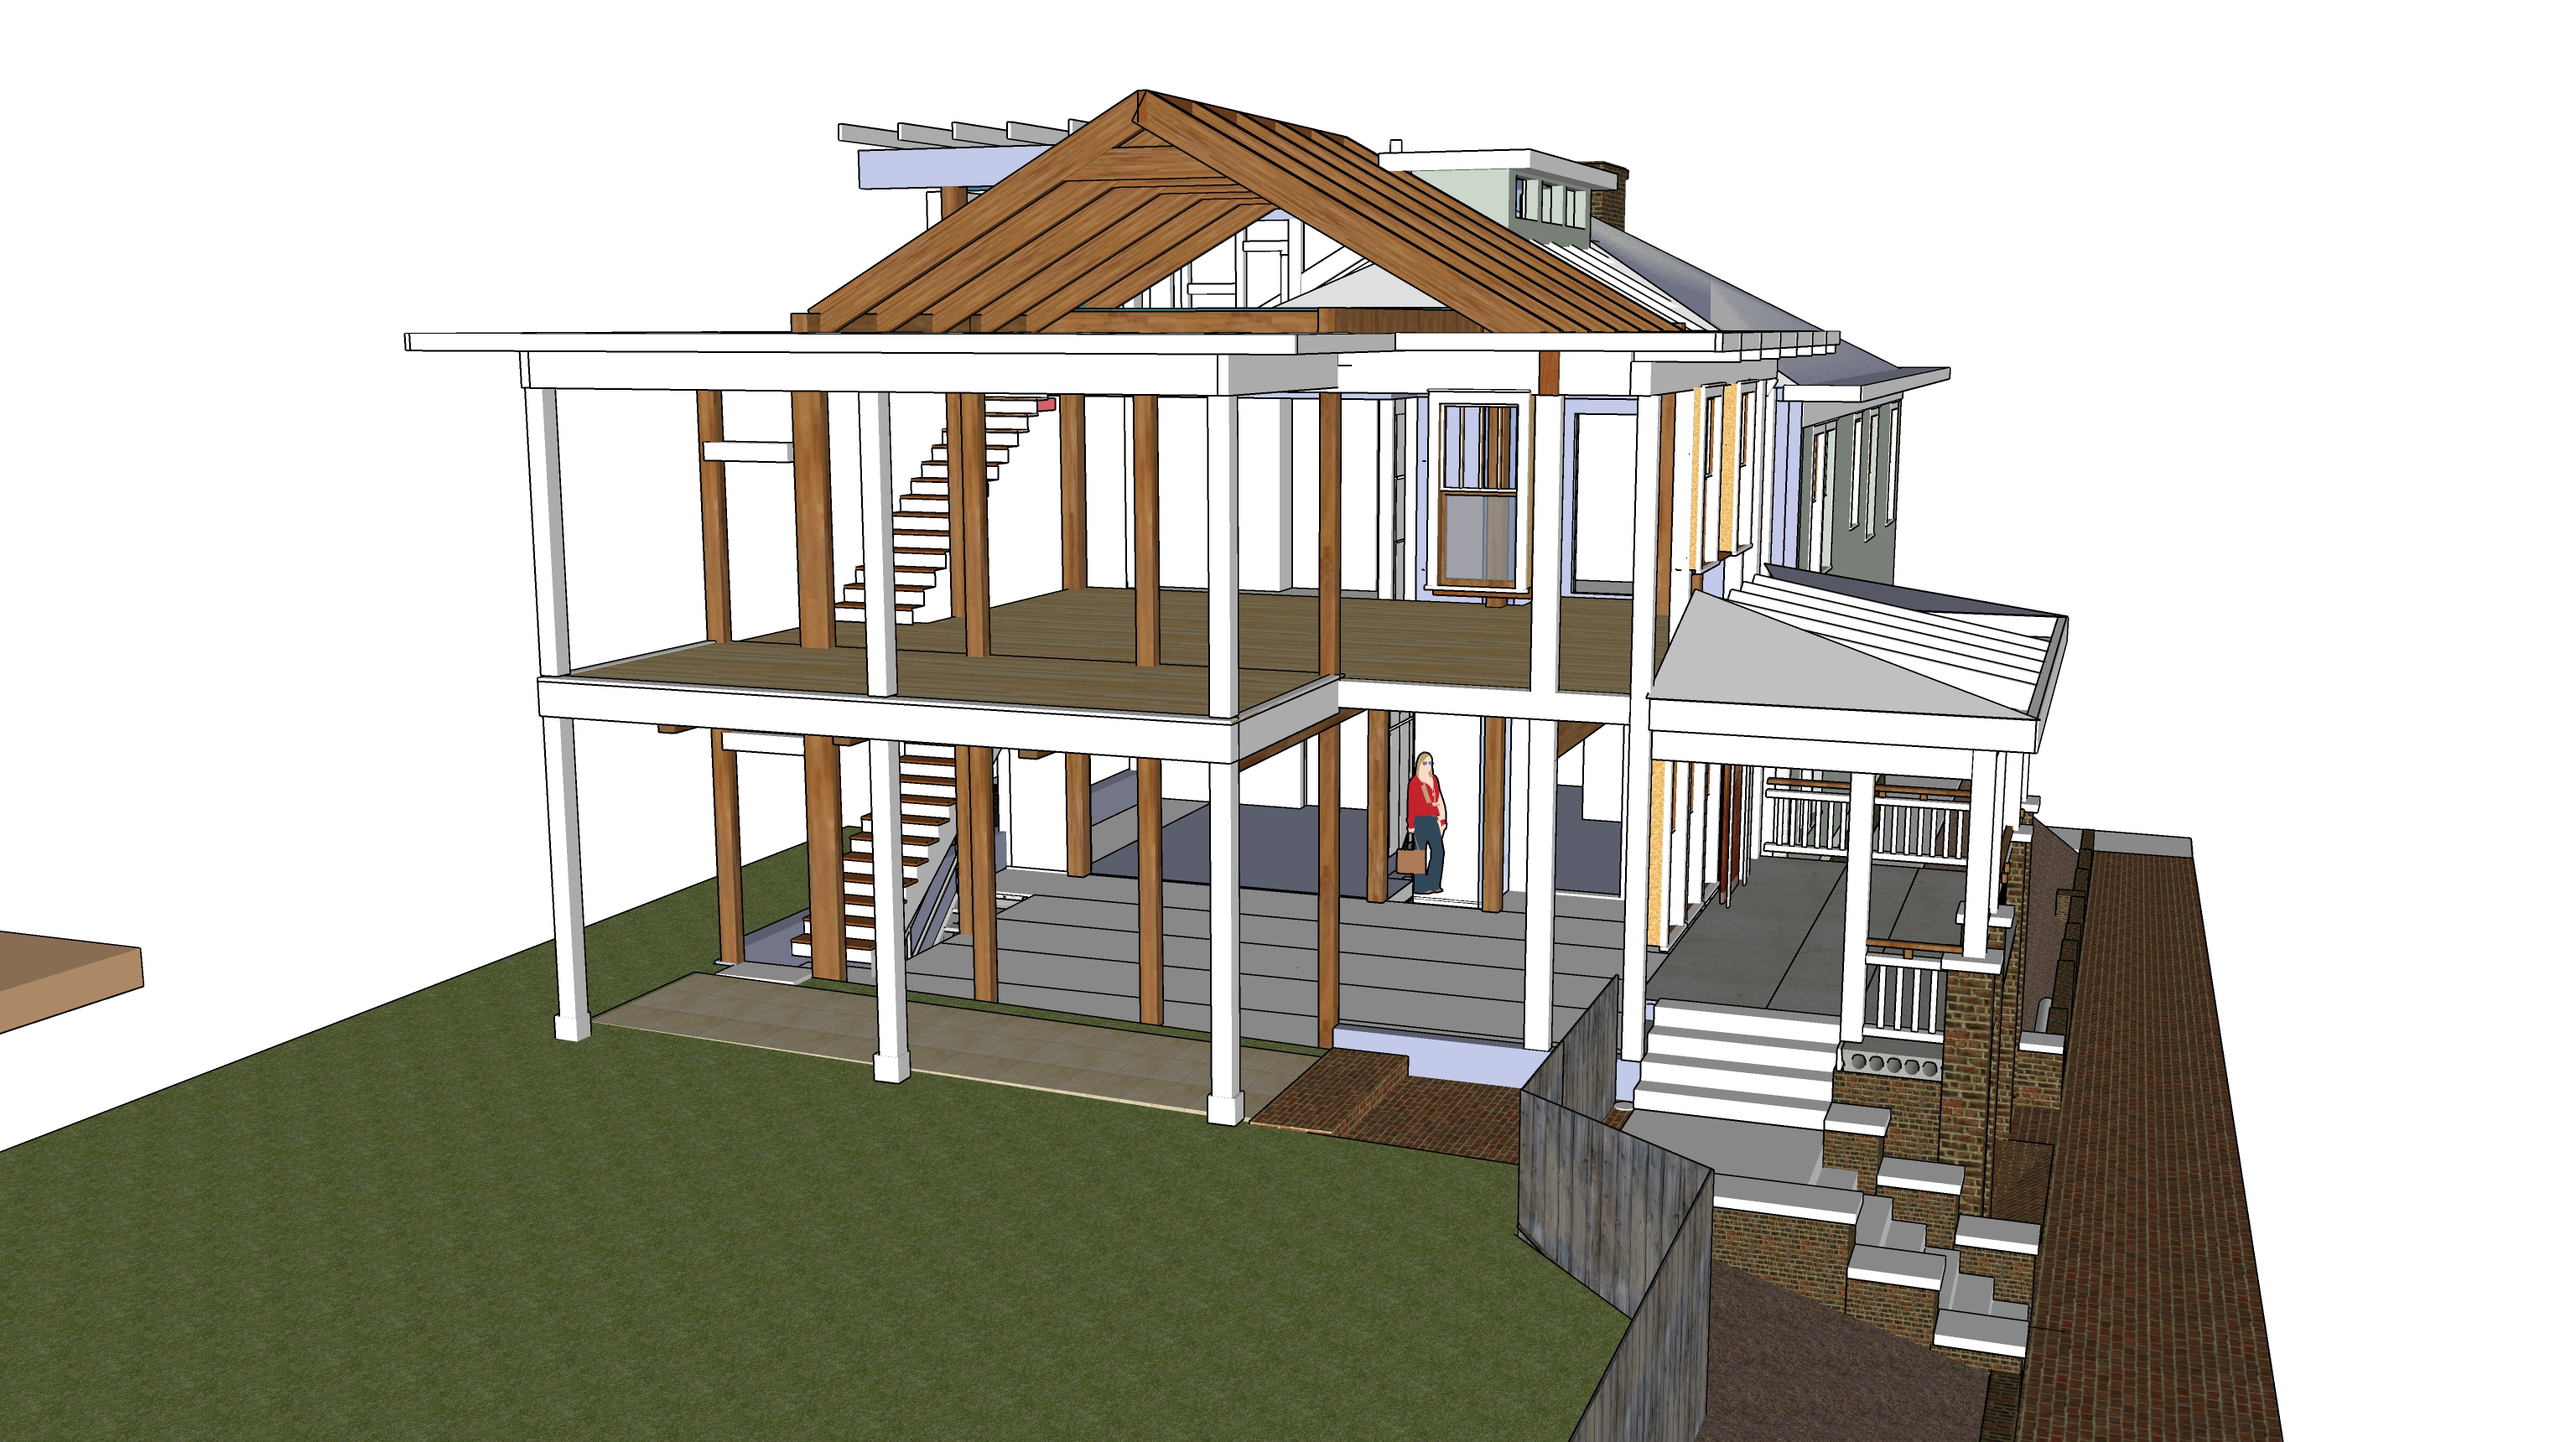
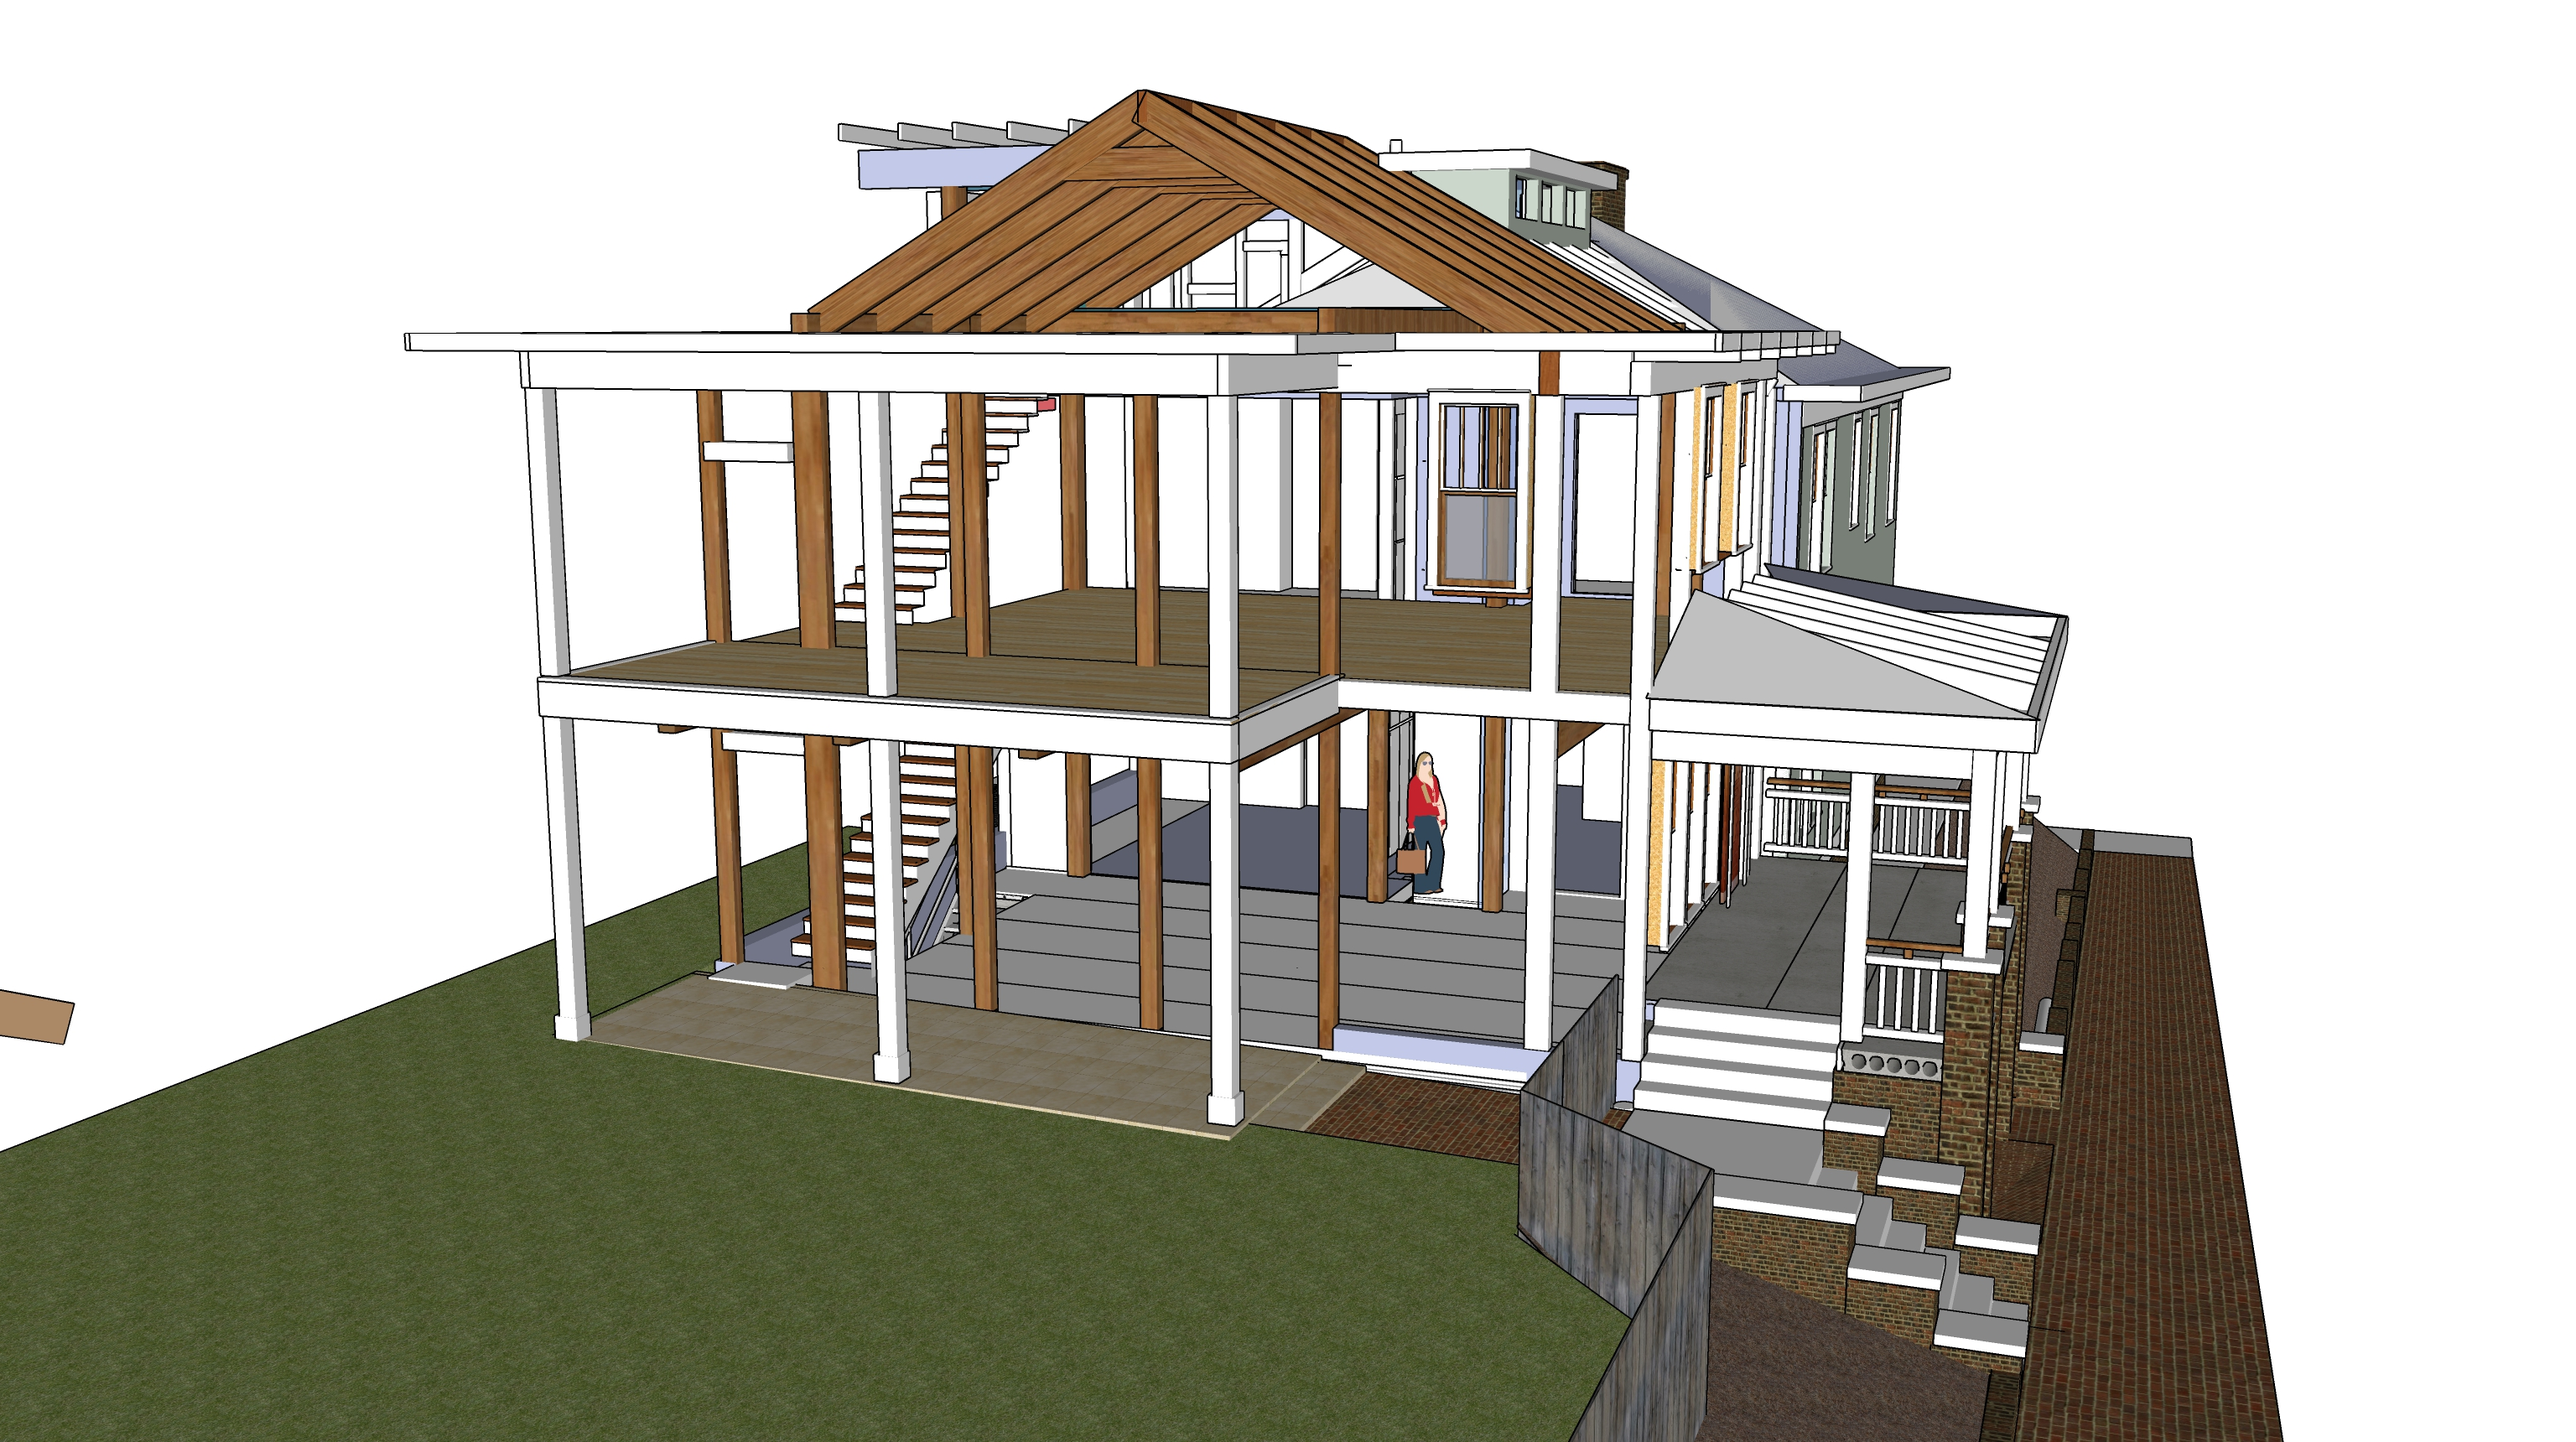
Update

Changed region(s): [[0.2188, 0.6779, 0.5938, 0.8012], [0.0, 0.6471, 0.0625, 0.7395]]

diff --git a/index.html b/index.html
@@ -47,12 +47,24 @@ The existing stacked laundry rooms (7' by 14') will be moved to the back of the 
 <a href="exterior/img/before/back.jpg"><img src="exterior/img/before/back.jpg" style="width:100%; max-width: 550px; float:left; margin:0 20px 20px 0"></a>
 <a href="exterior/img/before/back-laundryroom.jpg"><img src="exterior/img/before/back-laundryroom.jpg" style="width:100%; max-width: 550px; float:left; margin:0 20px 20px 0"></a>
 
+<div style="clear:both"></div><br>
+
+Existing house is indicated in blue above.  Laundry area removed from back would be repurposed as Art Shed or given away for reuse. (7' x 14' x 10' tall)<br><br>
+
+<a href="exterior/img/floorplan.jpg"><img src="exterior/img/floorplan.jpg" style="width:100%; max-width: 1000px"></a><br><br> 
+
+
 
 
 <!--
 <a href="exterior/img/southeast.jpg"><img src="exterior/img/southeast-wide-win-trim.jpg" style="width:100%; max-width: 1200px"></a>
 <div id="elevations"></div>
 -->
+
+<h2>Framework over Hollow Core (Precast Concrete)</h2><br>
+<a href="framework/img/framework-west.jpg"><img src="framework/img/framework-west.jpg" style="width:100%; max-width: 1200px"></a>
+
+
 
 <div id="elevations" style="clear:both"></div>
 
@@ -61,9 +73,6 @@ The existing stacked laundry rooms (7' by 14') will be moved to the back of the 
 
 <h2>West Elevation</h2><br>
 <a href="elevations/img/4-levels.jpg"><img src="elevations/img/4-levels.jpg" style="width:100%; max-width: 1200px"></a>
-
-<h2>Framework over Hollow Core (Precast Concrete)</h2><br>
-<a href="framework/img/framework-west.jpg"><img src="framework/img/framework-west.jpg" style="width:100%; max-width: 1200px"></a>
 
 
 <!--

diff --git a/phases/README.md b/phases/README.md
@@ -56,7 +56,7 @@ Possible resource: Fernando Garcia 404-538-2458 - Basement on Georgia Ave (July 
 | Hollow core slabs, probably use crane | $15,000 | $25,000 |
 | Weatherproof plywood cover over basement stair opening, secure from below (small) | $100 | $200 |
 | Metal stairway in basement | $1,000 | $4,000 |
-| Basement window under porch. Black frame, an old factory look, opens for vehicles to drive onto lift | $900 | $1,400 |
+| Basement window under porch. Black frame, an old factory look. Slides or swings open fully.  | $900 | $1,400 |
 | Thick porch tiles laid out for rain absorption as back porch (small) | $400 | $800 |
 | Rain barrels and pipe hookup under south steps | $1,000 | $1,500 |
 | Drains from brick porch area down to street, drain going east next to short brick wall | $800 | $1,500
@@ -136,7 +136,7 @@ sand to absorb water, careful with roots | $800 | $1000 |
 
 
 ## Phase 7 - Solar Panels
-| Watch to see if new rebates are expected |||
+| New rebates are expected. List of [solar contractors in Georgia](https://www.solarpowerworldonline.com/2020-top-georgia-contractors/)  |||
 |---|---|---|
 | Solar panels  | $20,000 | $30,000 |
 
@@ -345,7 +345,7 @@ Plans do not yet include location for “influx of fresh air” to stimulate bui
 
 ### HVAC Duct Fabricators
 Atlanta Supply - Logan Circle (for Ducts, custom)  
-Custom sheet metal (pricy) [B & S Sheet Metal Fabricators Inc.](https://bsmetalfabricators.com/)  
+Custom sheet metal (pricey) [B & S Sheet Metal Fabricators Inc.](https://bsmetalfabricators.com/)  
 
 Current HVAC in crawl space: Ducane  
 Sept 2014 - Circuit board replaced  

diff --git a/README.md b/README.md
@@ -33,7 +33,7 @@ Metalbenderz.com - 16" floors too thick
 
 -->
 
-<a href="exterior/img/floorplan.jpg"><img src="exterior/img/floorplan.jpg" style="width:100%; max-width: 1200px"></a><br><br> 
+
 
 
 
